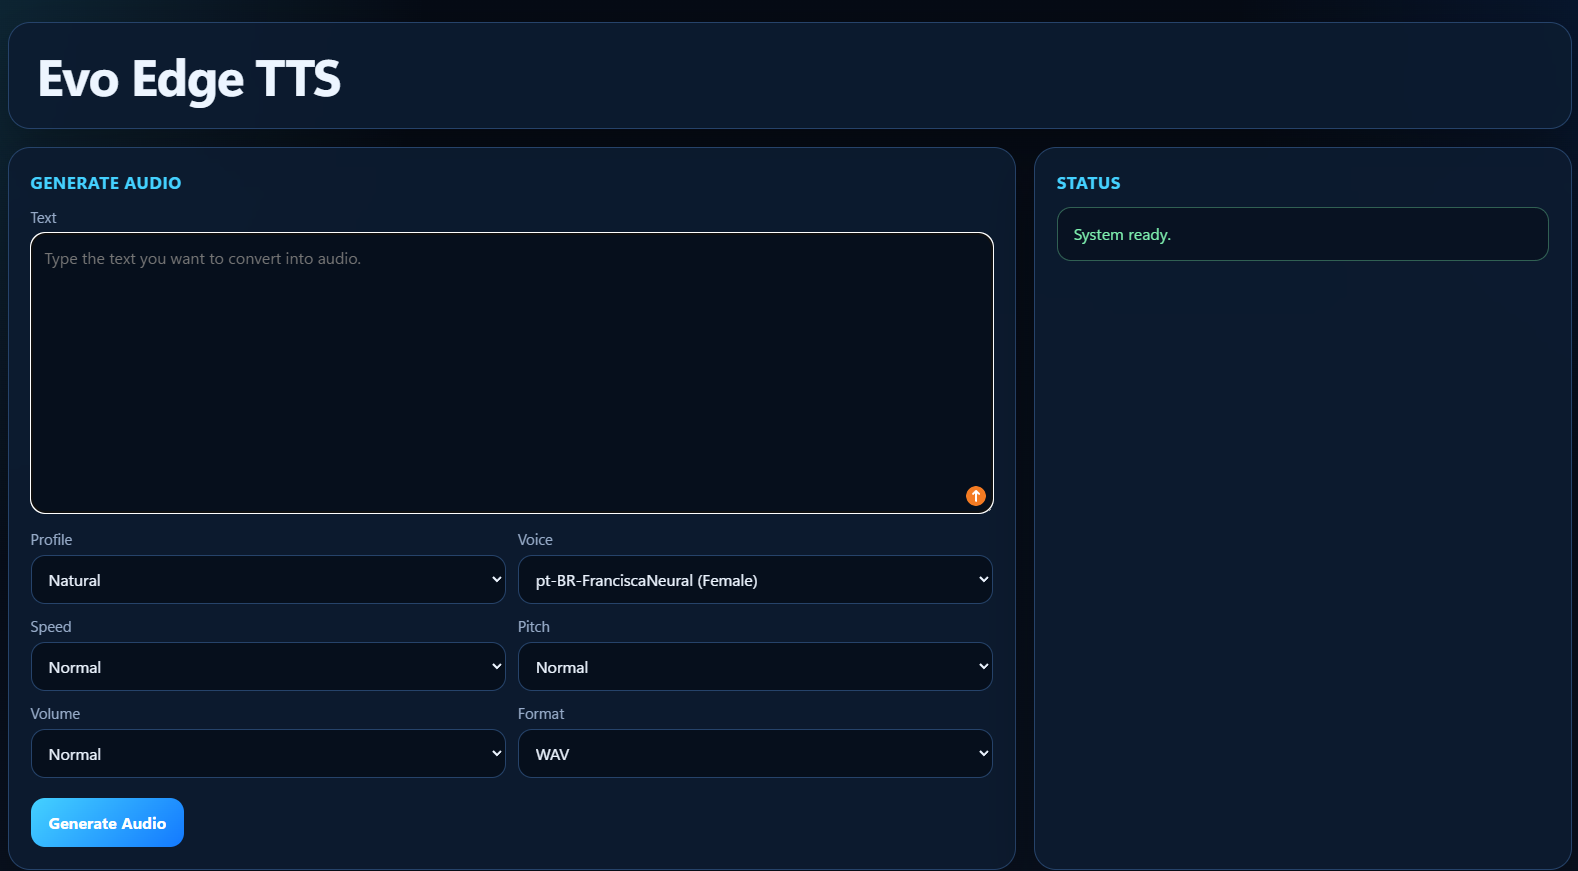
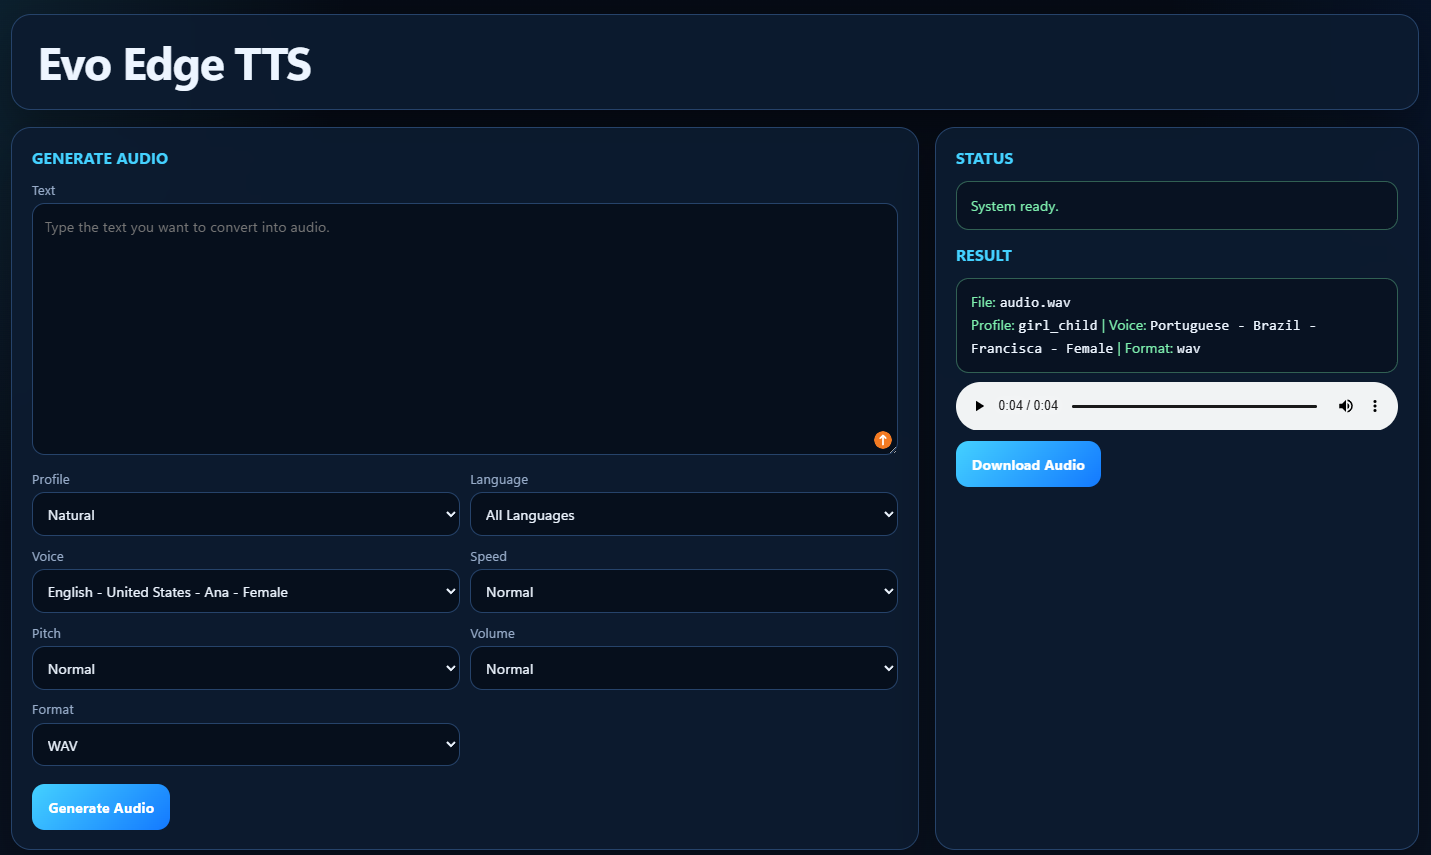
Update README preview image and simplify voice filters

diff --git a/ui/index.html b/ui/index.html
@@ -75,7 +75,7 @@
             color: var(--muted);
             font-size: 0.93rem;
         }
-        textarea, select {
+        textarea, select, input {
             width: 100%;
             border: 1px solid var(--line);
             background: rgba(5, 14, 27, 0.92);
@@ -171,6 +171,10 @@
                             <select id="profile" name="profile"></select>
                         </div>
                         <div>
+                            <label for="language">Language</label>
+                            <select id="language" name="language"></select>
+                        </div>
+                        <div>
                             <label for="voice">Voice</label>
                             <select id="voice" name="voice"></select>
                         </div>
@@ -238,6 +242,7 @@
     <script>
         const apiBase = "http://127.0.0.1:8890";
         const profileSelect = document.getElementById("profile");
+        const languageSelect = document.getElementById("language");
         const voiceSelect = document.getElementById("voice");
         const textField = document.getElementById("text");
         const generateBtn = document.getElementById("generateBtn");
@@ -357,6 +362,7 @@
 
         let currentAudioUrl = null;
         let profiles = fallbackProfiles;
+        let allVoices = fallbackVoices;
 
         function friendlyVoiceLabel(item) {
             const localeParts = (item.locale || "").split("-");
@@ -379,7 +385,37 @@
             });
         }
 
-        function fillVoices(items) {
+        function languageLabelFromLocale(locale) {
+            const localeParts = (locale || "").split("-");
+            const languageCode = localeParts[0] || "";
+            const countryCode = localeParts[1] || "";
+            const languageName = languageNames[languageCode] || languageCode || "Language";
+            const countryName = countryNames[countryCode] || countryCode || "Region";
+            return `${languageName} - ${countryName}`;
+        }
+
+        function fillLanguages(items) {
+            languageSelect.innerHTML = "";
+
+            const allOption = document.createElement("option");
+            allOption.value = "all";
+            allOption.textContent = "All Languages";
+            languageSelect.appendChild(allOption);
+
+            const seenLocales = new Set();
+            items.forEach((item) => {
+                if (!item.locale || seenLocales.has(item.locale)) {
+                    return;
+                }
+                seenLocales.add(item.locale);
+                const option = document.createElement("option");
+                option.value = item.locale;
+                option.textContent = languageLabelFromLocale(item.locale);
+                languageSelect.appendChild(option);
+            });
+        }
+
+        function fillVoices(items, selectedVoice = "") {
             voiceSelect.innerHTML = "";
             const seen = new Set();
             items.forEach((item) => {
@@ -390,8 +426,23 @@
                 const option = document.createElement("option");
                 option.value = item.name;
                 option.textContent = friendlyVoiceLabel(item);
+                if (selectedVoice && item.name === selectedVoice) {
+                    option.selected = true;
+                }
                 voiceSelect.appendChild(option);
             });
+        }
+
+        function renderVoiceOptions() {
+            const currentVoice = voiceSelect.value;
+            const selectedLocale = languageSelect.value || "all";
+            const filteredVoices = allVoices.filter((item) => selectedLocale === "all" || item.locale === selectedLocale);
+
+            fillVoices(filteredVoices, currentVoice);
+
+            if (!voiceSelect.value && voiceSelect.options.length > 0) {
+                voiceSelect.selectedIndex = 0;
+            }
         }
 
         function applyProfile(id) {
@@ -437,12 +488,15 @@
             await checkApi();
             profiles = await fetchJson("/edge-tts/profiles", fallbackProfiles);
             const voices = await fetchJson("/edge-tts/voices", fallbackVoices);
+            allVoices = voices;
             fillProfiles(profiles);
-            fillVoices(voices);
+            fillLanguages(allVoices);
+            renderVoiceOptions();
             applyProfile(profileSelect.value || "default");
         }
 
         profileSelect.addEventListener("change", () => applyProfile(profileSelect.value));
+        languageSelect.addEventListener("change", () => renderVoiceOptions());
 
         form.addEventListener("submit", async (event) => {
             event.preventDefault();
@@ -512,6 +566,11 @@
     </script>
 </body>
 </html>
+
+
+
+
+
 
 
 
